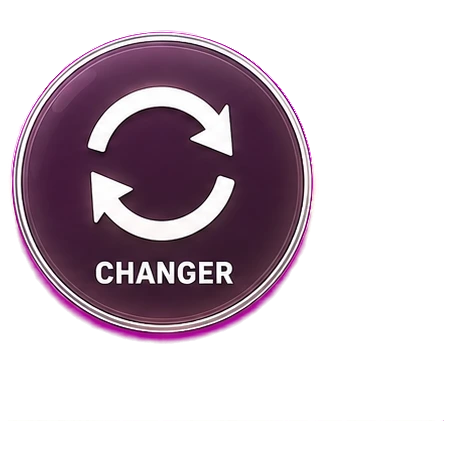
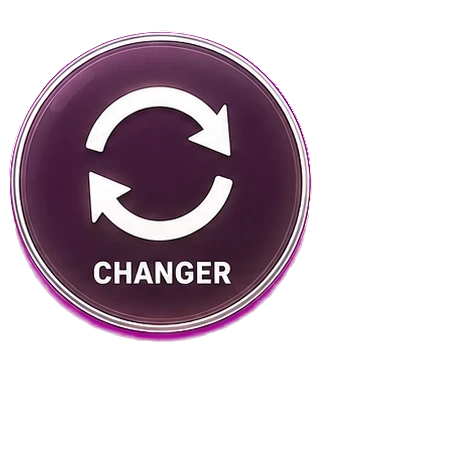
dtour v6.51 : le lisere rose des boutons disparait, detourage verifie sur fond sombre

diff --git a/dtour/index.html b/dtour/index.html
@@ -734,7 +734,7 @@ kbd{
     <div class="lecture" id="dLecture"></div>
   </div>
 
-  <div id="version">CALLAGHAN v6.50</div>
+  <div id="version">CALLAGHAN v6.51</div>
 
   <div id="pupitre2">
     <button class="cmd2" id="c2G" aria-label="Aller à gauche">◀</button>
@@ -806,7 +806,7 @@ kbd{
      UIManager         -> Interface
 ================================================================== */
 
-const VERSION = "6.50";
+const VERSION = "6.51";
 
 /* ---------- géométrie ----------
    Tout est exprimé en « unités monde », où un personnage mesure

diff --git a/dtour/parts/a_socle.js b/dtour/parts/a_socle.js
@@ -18,7 +18,7 @@
      UIManager         -> Interface
 ================================================================== */
 
-const VERSION = "6.50";
+const VERSION = "6.51";
 
 /* ---------- géométrie ----------
    Tout est exprimé en « unités monde », où un personnage mesure

diff --git a/dtour/MEMOIRE.md b/dtour/MEMOIRE.md
@@ -108,6 +108,16 @@ CHAUSSURES au milieu de l'image et la ligne de sol en bas ; le rendu
 dessine alors bêtement en `x - largeur/2`, `y - hauteur`, et tout tombe
 juste.
 
+### Un détourage se vérifie SUR FOND SOMBRE
+Les huit boutons paraissaient impeccables sur ma planche de contrôle
+claire. En jeu, chacun portait un **liseré rose** : l'anti-crénelage du
+halo, dont la couleur reste celle du fond même après décontamination.
+Sur du clair on ne le voit pas ; sur une ruelle au crépuscule, il saute
+aux yeux. Deux règles : on compose le contrôle sur un fond SOMBRE quand
+l'image ira sur du sombre, et on annule l'alpha des pixels dont la
+couleur décontaminée ressemble encore au fond — un pixel qui reste de la
+couleur du fond EST du fond, quelle que soit son opacité.
+
 ### Un fond se MESURE, il ne se devine pas
 La planche des boutons avait un fond à **(228, 3, 216)**, pas
 `#FF00FF` : le générateur l'avait légèrement assombri. En supposant le
